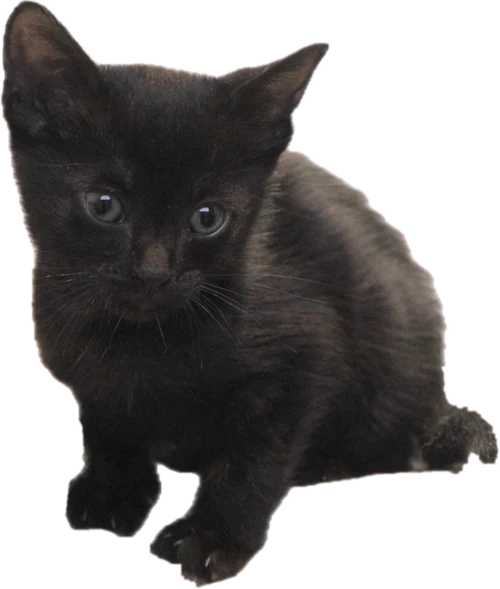
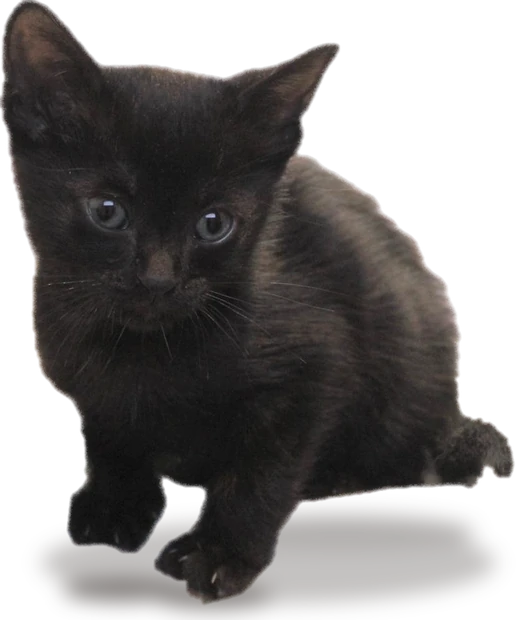
Escritorio: Oreo con bordes suaves y sombra de contacto

diff --git a/index.html b/index.html
@@ -444,7 +444,7 @@ b,strong,h1,h2,h3,dt,th{font-weight:600}
 <circle cx="85" cy="74" r="33" fill="#3a3335"/><circle cx="85" cy="74" r="25" fill="#0f0d0e"/><circle cx="85" cy="74" r="14" fill="#41304a"/><circle cx="77" cy="66" r="5" fill="#fff" opacity=".55"/>
 <circle cx="140" cy="42" r="5" fill="#3f97c9"/><rect x="128" y="88" width="22" height="16" rx="3" fill="#2b2426"/></svg><span class="num" style="right:-42px;bottom:4px">(03)</span><span class="dato">Para coberturas en vivo, como la de los Premios ANDA 2024.</span></div>
     <div class="obj flota b" tabindex="0" style="--w:200px;right:3%;top:4%;--r:4deg"><img loading="lazy" src="img/escritorio/agenda.webp" alt=""><span class="num" style="right:-38px;bottom:16px">(04)</span><span class="dato">La libreta de EnterX: «Pensar mejor. Ejecutar mejor.» Todo empieza en papel.</span></div>
-    <div class="obj flota c" tabindex="0" style="--w:165px;left:4%;bottom:2%"><img loading="lazy" src="img/escritorio/oreo.webp?v=1" alt=""><span class="num" style="left:-40px;bottom:30px">(05)</span><span class="dato">Oreo, mi gato negro y supervisor oficial de cada entrega.</span></div>
+    <div class="obj flota c" tabindex="0" style="--w:175px;left:4%;bottom:2%"><img loading="lazy" src="img/escritorio/oreo.webp?v=2" alt=""><span class="num" style="left:-40px;bottom:30px">(05)</span><span class="dato">Oreo, mi gato negro y supervisor oficial de cada entrega.</span></div>
     <div class="obj flota" tabindex="0" style="--w:150px;left:28%;bottom:5%;--r:-4deg"><img loading="lazy" src="img/escritorio/tote.webp" alt=""><span class="num" style="right:-40px;top:0">(06)</span><span class="dato">El tote de EnterX: la primera pieza de merch que diseñé para la marca.</span></div>
     <div class="obj flota b" tabindex="0" style="--w:190px;left:50%;bottom:3%;--r:2deg"><svg viewBox="0 0 190 150" aria-hidden="true"><ellipse cx="95" cy="140" rx="80" ry="7" fill="#e2d9cf"/>
 <rect x="18" y="104" width="152" height="30" rx="3" fill="#3b4a35"/><rect x="18" y="104" width="10" height="30" fill="#2b3727"/><rect x="40" y="112" width="44" height="14" rx="2" fill="#efe6d6"/><text x="62" y="123" text-anchor="middle" font-family="sans-serif" font-size="8" fill="#3b4a35">vol. 1</text>
